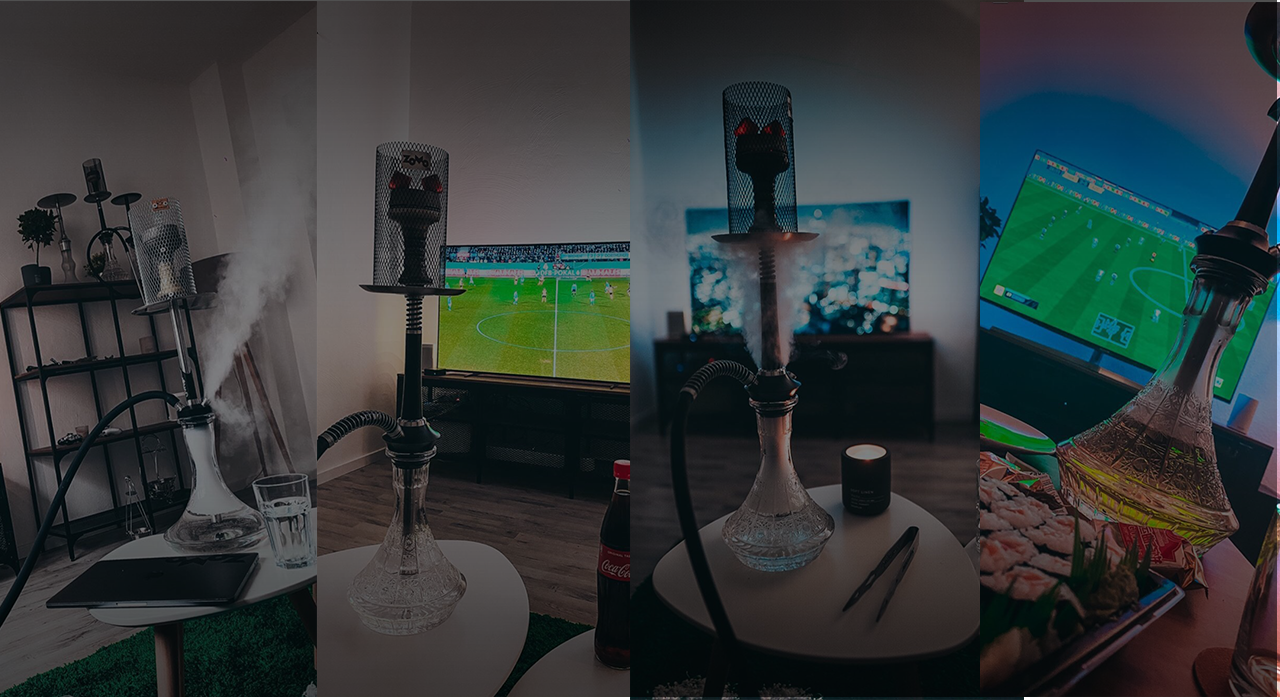
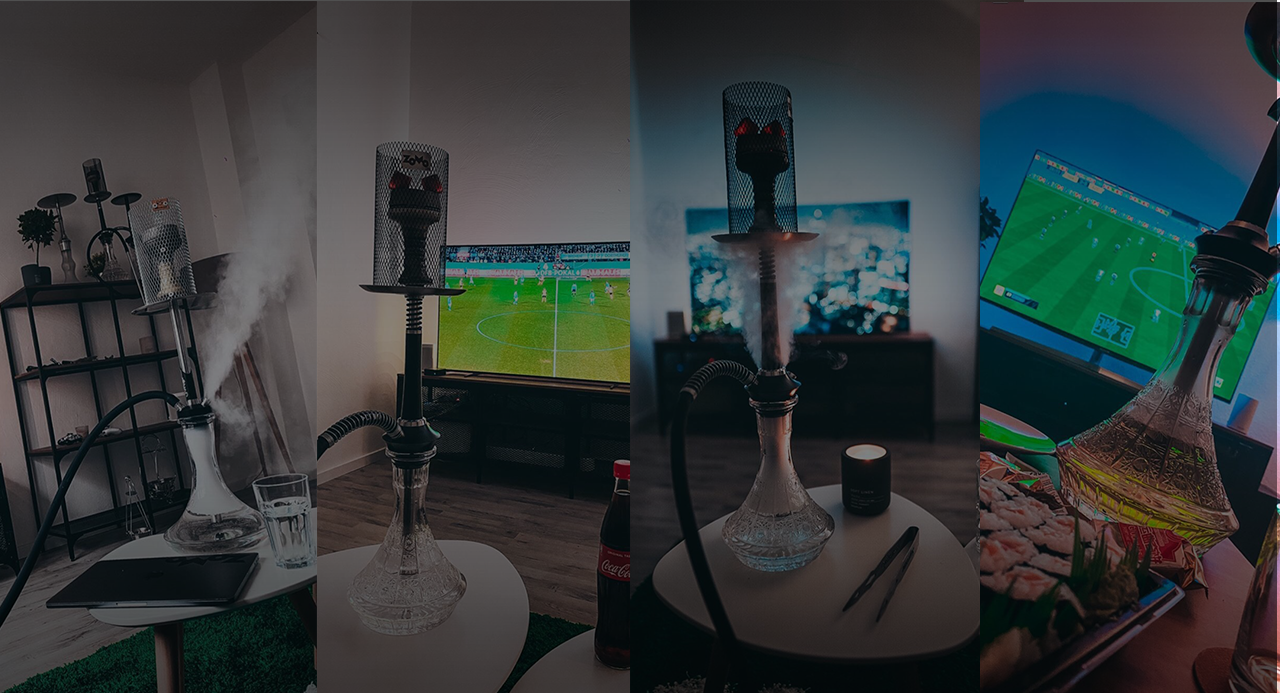
Initial commit4

diff --git a/kalik/css/style.css b/kalik/css/style.css
@@ -226,7 +226,7 @@ li.nav-item .btn-white {
     margin: 0 auto; }
 
 .cover-2 {
-  background-image: url('../images/newlevel-2_0000_первый.png');
+  background-image: url('../images/first.png');
   background-position: top;
   
   min-height: 10rem;
